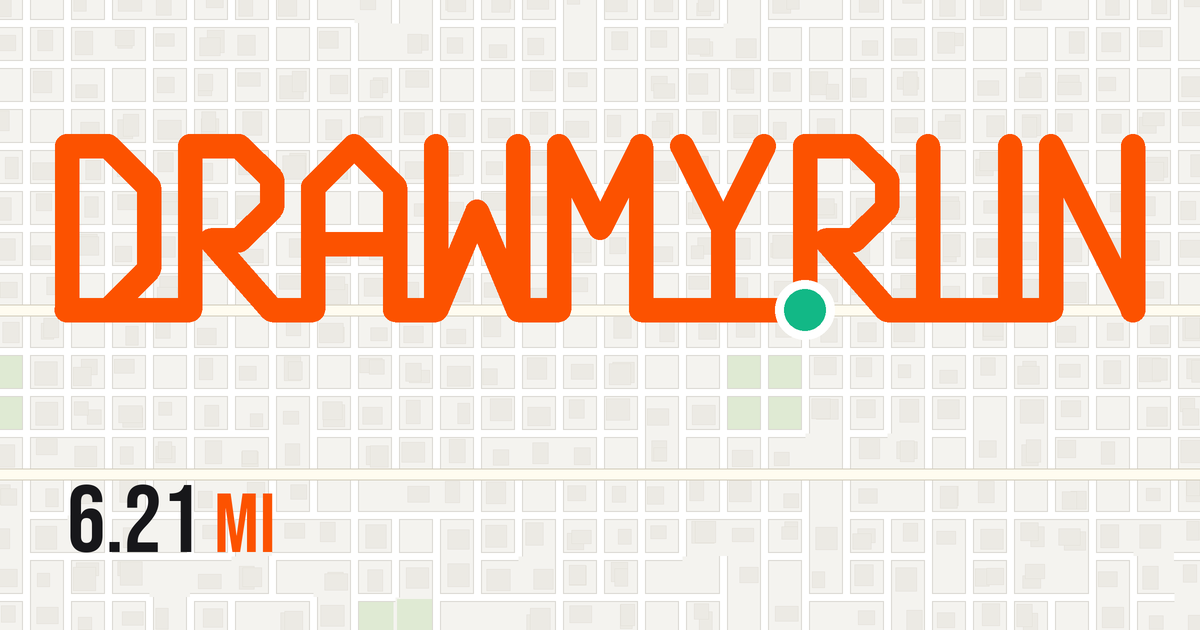
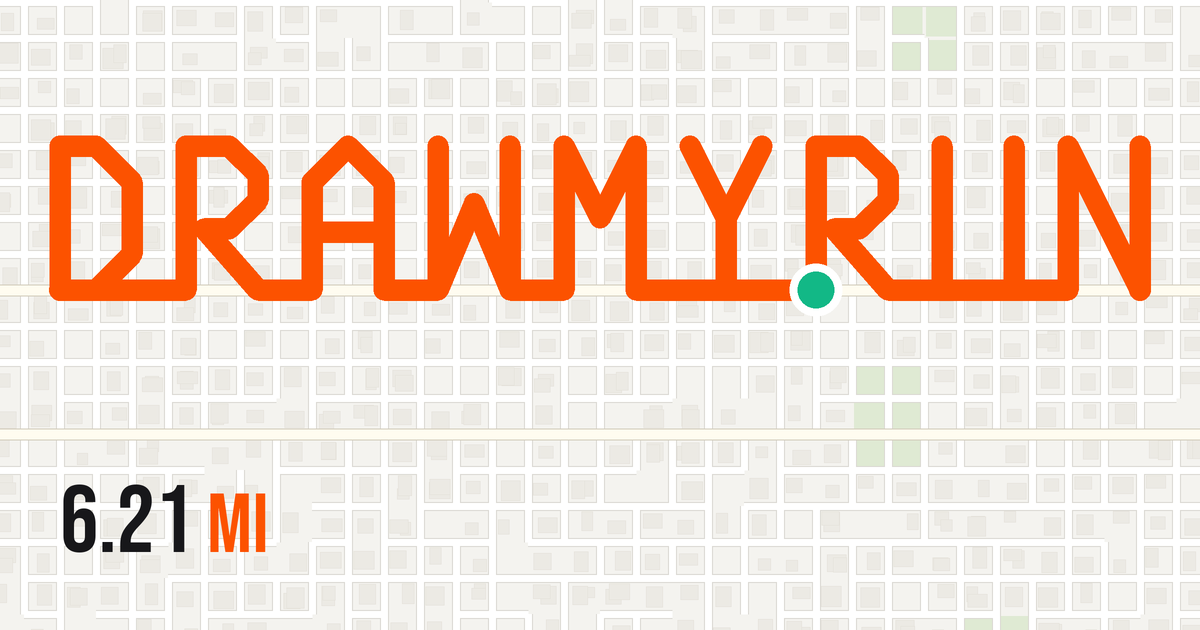
The wordmark readable: letters set apart, the etched paint bright, the mark a size up
The letters stood three units apart on a lattice two wide, which left
less than half a unit of clear space between one letter and the next,
and at the header's size that is two pixels: the letters ran together.
They stand three and a half apart now, with nearly a unit clear between
them, in the header, on the bib, in the GIF's band and on the card. The
etch had also dimmed the paint and shaded the top third of every
stroke; the paint is the deck's full orange now, with the recess's
shadow a thin line along the top edge, and the lip below a little
brighter. The header's mark is a size up, 28 pixels on a phone and 32
on a wider screen.

The card is drawn again with the wider mark, and every stretch of the
run has a street under it whether it lies on the grid or not.

Claude-Session: https://claude.ai/code/session_01Dmg3qgF2RMqA8VqrgFUq5h

Changed region(s): [[0.0, 0.0, 1.0, 1.0]]

diff --git a/web/src/lib/wordmark.ts b/web/src/lib/wordmark.ts
@@ -1,17 +1,17 @@
 // The wordmark as a run: DRAWMYRUN in block letters on a lattice, two units
-// wide and four tall, drawn by one route line that joins the letters along
+// wide and four tall, set three and a half apart so they read apart, drawn by one route line that joins the letters along
 // the baseline and retraces where a runner would, and the green start dot
 // standing at the foot of RUN's R as the period. One path, in lattice units;
 // the header, the bib, the GIF's caption band and the social card all draw it.
-export const WORDMARK_D = "M0.00 4L0.00 0L1.00 0L2.00 1L2.00 3L1.00 4L0.00 4L2.00 4L3.00 4L3.00 0L4.20 0L5.00 0.8L5.00 1.5L4.20 2.3L3.50 2.3L5.00 4L6.00 4L6.00 1L7.00 0L8.00 1L8.00 2.4L6.00 2.4L8.00 2.4L8.00 4L9.00 4L9.00 0L9.00 4L10.00 1.6L11.00 4L11.00 0L11.00 4L12.00 4L12.00 0L13.00 2L14.00 0L14.00 4L15.00 4L16.00 4L16.00 2L15.00 0L16.00 2L17.00 0L16.00 2L16.00 4L17.00 4L18.00 4L18.00 0L19.20 0L20.00 0.8L20.00 1.5L19.20 2.3L18.50 2.3L20.00 4L21.00 4L21.00 0L21.00 4L23.00 4L23.00 0L23.00 4L24.00 4L24.00 0L26.00 4L26.00 0L26.00 4";
+export const WORDMARK_D = "M0.00 4L0.00 0L1.00 0L2.00 1L2.00 3L1.00 4L0.00 4L2.00 4L3.50 4L3.50 0L4.70 0L5.50 0.8L5.50 1.5L4.70 2.3L4.00 2.3L5.50 4L7.00 4L7.00 1L8.00 0L9.00 1L9.00 2.4L7.00 2.4L9.00 2.4L9.00 4L10.50 4L10.50 0L10.50 4L11.50 1.6L12.50 4L12.50 0L12.50 4L14.00 4L14.00 0L15.00 2L16.00 0L16.00 4L17.50 4L18.50 4L18.50 2L17.50 0L18.50 2L19.50 0L18.50 2L18.50 4L19.50 4L21.00 4L21.00 0L22.20 0L23.00 0.8L23.00 1.5L22.20 2.3L21.50 2.3L23.00 4L24.50 4L24.50 0L24.50 4L26.50 4L26.50 0L26.50 4L28.00 4L28.00 0L30.00 4L30.00 0L30.00 4";
 // The same run as one filled outline (the stroke's outline, its retraces
 // joined), which is what is drawn: a stroke that goes back over itself
 // leaves little burrs at the joins at small sizes, an outline does not.
 // Made from WORDMARK_D and WORDMARK_STROKE with shapely (round caps and
 // joins); rings inside are the counters, so it is filled even-odd.
-export const WORDMARK_OUTLINE_D = "M1.039 -0.297L-0.039 -0.297L-0.078 -0.290L-0.150 -0.260L-0.212 -0.212L-0.260 -0.150L-0.290 -0.078L-0.300 0.000L-0.300 4.000L-0.290 4.078L-0.260 4.150L-0.238 4.183L-0.183 4.238L-0.150 4.260L-0.078 4.290L0.000 4.300L3.000 4.300L3.078 4.290L3.150 4.260L3.212 4.212L3.260 4.150L3.290 4.078L3.297 4.039L3.300 2.527L4.775 4.198L4.834 4.250L4.904 4.284L5.000 4.300L6.000 4.300L6.078 4.290L6.115 4.277L6.150 4.260L6.212 4.212L6.260 4.150L6.277 4.115L6.290 4.078L6.300 4.000L6.300 2.700L7.700 2.700L7.700 4.000L7.710 4.078L7.740 4.150L7.762 4.183L7.817 4.238L7.850 4.260L7.922 4.290L7.961 4.297L9.039 4.297L9.114 4.277L9.182 4.238L9.212 4.212L9.260 4.150L10.000 2.380L10.723 4.115L10.762 4.183L10.788 4.213L10.850 4.260L10.886 4.277L10.961 4.297L11.000 4.300L12.000 4.300L12.078 4.290L12.150 4.260L12.183 4.238L12.238 4.183L12.277 4.115L12.297 4.039L12.300 1.271L12.750 2.165L12.801 2.224L12.866 2.268L12.940 2.294L12.982 2.299L13.060 2.294L13.134 2.268L13.197 2.227L13.249 2.168L13.700 1.271L13.703 4.039L13.723 4.115L13.762 4.183L13.817 4.238L13.850 4.260L13.922 4.290L14.000 4.300L18.000 4.300L18.078 4.290L18.115 4.277L18.183 4.238L18.238 4.183L18.277 4.115L18.297 4.039L18.300 2.527L19.775 4.198L19.834 4.250L19.904 4.284L20.000 4.300L24.000 4.300L24.078 4.290L24.150 4.260L24.183 4.238L24.238 4.183L24.277 4.115L24.297 4.039L24.300 1.271L25.751 4.168L25.817 4.238L25.885 4.277L25.982 4.299L26.060 4.294L26.134 4.268L26.212 4.212L26.270 4.131L26.295 4.057L26.300 4.000L26.300 0.000L26.297 -0.039L26.277 -0.115L26.238 -0.183L26.183 -0.238L26.150 -0.260L26.078 -0.290L26.039 -0.297L25.961 -0.297L25.922 -0.290L25.885 -0.277L25.817 -0.238L25.762 -0.183L25.740 -0.150L25.723 -0.115L25.703 -0.039L25.700 2.729L24.249 -0.168L24.197 -0.227L24.131 -0.270L24.057 -0.295L23.979 -0.299L23.902 -0.284L23.832 -0.249L23.773 -0.197L23.740 -0.150L23.710 -0.078L23.700 0.000L23.700 3.700L23.300 3.700L23.300 0.000L23.297 -0.039L23.277 -0.115L23.238 -0.183L23.183 -0.238L23.150 -0.260L23.078 -0.290L23.039 -0.297L22.961 -0.297L22.922 -0.290L22.885 -0.277L22.817 -0.238L22.762 -0.183L22.740 -0.150L22.723 -0.115L22.703 -0.039L22.700 3.700L21.300 3.700L21.297 -0.039L21.277 -0.115L21.260 -0.150L21.238 -0.183L21.183 -0.238L21.115 -0.277L21.078 -0.290L21.000 -0.300L20.922 -0.290L20.885 -0.277L20.817 -0.238L20.762 -0.183L20.740 -0.150L20.723 -0.115L20.703 -0.039L20.700 3.700L20.135 3.700L19.165 2.600L19.239 2.597L19.315 2.577L19.383 2.538L19.412 2.512L20.212 1.712L20.238 1.683L20.277 1.615L20.297 1.539L20.300 1.500L20.300 0.800L20.290 0.722L20.260 0.650L20.212 0.588L19.412 -0.212L19.383 -0.238L19.315 -0.277L19.278 -0.290L19.200 -0.300L17.961 -0.297L17.885 -0.277L17.817 -0.238L17.762 -0.183L17.723 -0.115L17.703 -0.039L17.700 0.000L17.700 3.700L16.300 3.700L16.300 2.071L17.284 0.098L17.299 0.021L17.295 -0.057L17.285 -0.095L17.250 -0.165L17.199 -0.224L17.168 -0.249L17.098 -0.284L17.060 -0.294L16.982 -0.299L16.905 -0.285L16.835 -0.250L16.776 -0.199L16.751 -0.168L16.000 1.329L15.268 -0.134L15.224 -0.199L15.165 -0.250L15.095 -0.285L15.018 -0.299L14.940 -0.294L14.866 -0.268L14.801 -0.224L14.750 -0.165L14.715 -0.095L14.701 -0.018L14.701 0.021L14.716 0.098L14.732 0.134L15.700 2.071L15.700 3.700L14.300 3.700L14.299 -0.018L14.277 -0.115L14.238 -0.183L14.183 -0.238L14.098 -0.284L14.000 -0.300L13.905 -0.285L13.817 -0.238L13.751 -0.168L13.000 1.329L12.268 -0.134L12.224 -0.199L12.183 -0.238L12.115 -0.277L12.039 -0.297L11.961 -0.297L11.902 -0.284L11.832 -0.249L11.773 -0.197L11.740 -0.150L11.710 -0.078L11.700 0.000L11.700 3.700L11.300 3.700L11.300 0.000L11.297 -0.039L11.277 -0.115L11.238 -0.183L11.183 -0.238L11.115 -0.277L11.039 -0.297L10.961 -0.297L10.885 -0.277L10.817 -0.238L10.762 -0.183L10.723 -0.115L10.703 -0.039L10.700 2.500L10.259 1.449L10.213 1.388L10.151 1.341L10.078 1.310L10.001 1.300L9.923 1.310L9.851 1.340L9.788 1.387L9.741 1.449L9.300 2.500L9.300 0.000L9.290 -0.078L9.260 -0.150L9.212 -0.212L9.150 -0.260L9.078 -0.290L9.000 -0.300L8.922 -0.290L8.850 -0.260L8.817 -0.238L8.762 -0.183L8.723 -0.115L8.703 -0.039L8.700 0.000L8.700 3.700L8.300 3.700L8.300 1.000L8.297 0.961L8.277 0.885L8.238 0.817L8.212 0.788L7.183 -0.238L7.115 -0.277L7.039 -0.297L6.961 -0.297L6.885 -0.277L6.850 -0.260L6.788 -0.212L5.788 0.788L5.740 0.850L5.723 0.885L5.710 0.922L5.700 1.000L5.700 3.700L5.135 3.700L4.165 2.600L4.239 2.597L4.278 2.590L4.350 2.560L4.383 2.538L5.212 1.712L5.260 1.650L5.290 1.578L5.300 1.500L5.300 0.800L5.290 0.722L5.260 0.650L5.212 0.588L4.412 -0.212L4.350 -0.260L4.315 -0.277L4.278 -0.290L4.200 -0.300L3.000 -0.300L2.922 -0.290L2.850 -0.260L2.788 -0.212L2.762 -0.183L2.723 -0.115L2.710 -0.078L2.700 0.000L2.700 3.700L1.724 3.700L2.212 3.212L2.260 3.150L2.290 3.078L2.300 3.000L2.297 0.961L2.277 0.885L2.238 0.817L2.212 0.788L1.212 -0.212L1.150 -0.260L1.115 -0.277ZM0.876 0.300L1.700 1.124L1.700 2.876L0.876 3.700L0.300 3.700L0.300 0.300ZM4.700 1.376L4.076 2.000L3.479 2.001L3.385 2.023L3.333 2.051L3.300 2.077L3.300 0.300L4.076 0.300L4.700 0.924ZM6.300 1.124L7.000 0.424L7.700 1.124L7.700 2.100L6.300 2.100ZM19.700 0.924L19.700 1.376L19.076 2.000L18.479 2.001L18.385 2.023L18.333 2.051L18.300 2.077L18.300 0.300L19.076 0.300Z";
-export const WORDMARK_DOT = { x: 18, y: 4, r: 0.62 };
-export const WORDMARK_W = 26;          // the letters' width, in units
+export const WORDMARK_OUTLINE_D = "M1.039 -0.297L-0.039 -0.297L-0.078 -0.290L-0.150 -0.260L-0.212 -0.212L-0.260 -0.150L-0.290 -0.078L-0.300 0.000L-0.300 4.000L-0.290 4.078L-0.260 4.150L-0.238 4.183L-0.183 4.238L-0.150 4.260L-0.078 4.290L0.000 4.300L3.500 4.300L3.578 4.290L3.615 4.277L3.683 4.238L3.738 4.183L3.777 4.115L3.797 4.039L3.800 2.527L5.275 4.198L5.350 4.260L5.422 4.290L5.500 4.300L7.000 4.300L7.078 4.290L7.115 4.277L7.183 4.238L7.238 4.183L7.277 4.115L7.297 4.039L7.300 2.700L8.700 2.700L8.703 4.039L8.723 4.115L8.740 4.150L8.762 4.183L8.817 4.238L8.850 4.260L8.922 4.290L9.000 4.300L10.539 4.297L10.614 4.277L10.682 4.238L10.712 4.212L10.760 4.150L11.500 2.380L12.223 4.115L12.262 4.183L12.318 4.238L12.351 4.260L12.422 4.290L12.500 4.300L14.000 4.300L14.078 4.290L14.150 4.260L14.183 4.238L14.238 4.183L14.277 4.115L14.297 4.039L14.300 1.271L14.750 2.165L14.801 2.224L14.866 2.268L14.940 2.294L14.982 2.299L15.060 2.294L15.134 2.268L15.197 2.227L15.249 2.168L15.700 1.271L15.703 4.039L15.723 4.115L15.740 4.150L15.788 4.212L15.850 4.260L15.922 4.290L15.961 4.297L21.000 4.300L21.078 4.290L21.150 4.260L21.183 4.238L21.238 4.183L21.277 4.115L21.297 4.039L21.300 2.527L22.775 4.198L22.834 4.250L22.922 4.290L23.000 4.300L28.000 4.300L28.078 4.290L28.150 4.260L28.183 4.238L28.238 4.183L28.277 4.115L28.297 4.039L28.300 1.271L29.732 4.134L29.762 4.183L29.817 4.238L29.905 4.285L29.982 4.299L30.078 4.290L30.168 4.249L30.227 4.197L30.277 4.115L30.297 4.039L30.300 0.000L30.297 -0.039L30.277 -0.115L30.238 -0.183L30.183 -0.238L30.150 -0.260L30.078 -0.290L30.039 -0.297L29.961 -0.297L29.922 -0.290L29.885 -0.277L29.817 -0.238L29.762 -0.183L29.740 -0.150L29.723 -0.115L29.703 -0.039L29.700 2.729L28.249 -0.168L28.197 -0.227L28.131 -0.270L28.057 -0.295L27.979 -0.299L27.902 -0.284L27.832 -0.249L27.773 -0.197L27.740 -0.150L27.710 -0.078L27.700 0.000L27.700 3.700L26.800 3.700L26.797 -0.039L26.777 -0.115L26.760 -0.150L26.738 -0.183L26.683 -0.238L26.615 -0.277L26.578 -0.290L26.500 -0.300L26.422 -0.290L26.385 -0.277L26.317 -0.238L26.262 -0.183L26.240 -0.150L26.223 -0.115L26.203 -0.039L26.200 3.700L24.800 3.700L24.797 -0.039L24.777 -0.115L24.760 -0.150L24.738 -0.183L24.683 -0.238L24.615 -0.277L24.578 -0.290L24.500 -0.300L24.422 -0.290L24.385 -0.277L24.317 -0.238L24.262 -0.183L24.240 -0.150L24.223 -0.115L24.203 -0.039L24.200 3.700L23.135 3.700L22.165 2.600L22.239 2.597L22.315 2.577L22.383 2.538L22.412 2.512L23.212 1.712L23.238 1.683L23.277 1.615L23.297 1.539L23.300 1.500L23.300 0.800L23.290 0.722L23.260 0.650L23.212 0.588L22.412 -0.212L22.383 -0.238L22.315 -0.277L22.278 -0.290L22.200 -0.300L20.961 -0.297L20.885 -0.277L20.817 -0.238L20.762 -0.183L20.723 -0.115L20.703 -0.039L20.700 0.000L20.700 3.700L18.800 3.700L18.800 2.071L19.768 0.134L19.794 0.060L19.799 0.021L19.795 -0.057L19.770 -0.131L19.727 -0.197L19.668 -0.249L19.598 -0.284L19.521 -0.299L19.482 -0.299L19.405 -0.285L19.335 -0.250L19.276 -0.199L19.251 -0.168L18.500 1.329L17.768 -0.134L17.724 -0.199L17.665 -0.250L17.631 -0.270L17.595 -0.285L17.518 -0.299L17.479 -0.299L17.402 -0.284L17.332 -0.249L17.273 -0.197L17.230 -0.131L17.205 -0.057L17.201 0.021L17.216 0.098L18.200 2.071L18.200 3.700L16.300 3.700L16.299 -0.018L16.290 -0.078L16.270 -0.131L16.238 -0.183L16.199 -0.224L16.150 -0.260L16.098 -0.284L16.000 -0.300L15.922 -0.290L15.850 -0.260L15.788 -0.212L15.740 -0.150L15.000 1.329L14.268 -0.134L14.224 -0.199L14.183 -0.238L14.115 -0.277L14.039 -0.297L13.961 -0.297L13.902 -0.284L13.832 -0.249L13.773 -0.197L13.740 -0.150L13.710 -0.078L13.700 0.000L13.700 3.700L12.800 3.700L12.800 0.000L12.790 -0.078L12.760 -0.150L12.738 -0.183L12.683 -0.238L12.615 -0.277L12.539 -0.297L12.461 -0.297L12.422 -0.290L12.350 -0.260L12.288 -0.212L12.240 -0.150L12.223 -0.115L12.203 -0.039L12.200 2.500L11.759 1.449L11.713 1.388L11.651 1.341L11.578 1.310L11.501 1.300L11.423 1.310L11.351 1.340L11.288 1.387L11.241 1.449L10.800 2.500L10.800 0.000L10.790 -0.078L10.760 -0.150L10.738 -0.183L10.683 -0.238L10.615 -0.277L10.539 -0.297L10.461 -0.297L10.422 -0.290L10.350 -0.260L10.288 -0.212L10.240 -0.150L10.210 -0.078L10.200 0.000L10.200 3.700L9.300 3.700L9.300 1.000L9.297 0.961L9.277 0.885L9.238 0.817L9.212 0.788L8.183 -0.238L8.115 -0.277L8.039 -0.297L7.961 -0.297L7.885 -0.277L7.850 -0.260L7.788 -0.212L6.788 0.788L6.740 0.850L6.710 0.922L6.700 1.000L6.700 3.700L5.635 3.700L4.665 2.600L4.739 2.597L4.778 2.590L4.850 2.560L4.883 2.538L5.712 1.712L5.760 1.650L5.790 1.578L5.800 1.500L5.800 0.800L5.790 0.722L5.760 0.650L5.712 0.588L4.912 -0.212L4.850 -0.260L4.815 -0.277L4.778 -0.290L4.700 -0.300L3.500 -0.300L3.422 -0.290L3.350 -0.260L3.288 -0.212L3.262 -0.183L3.223 -0.115L3.210 -0.078L3.200 0.000L3.200 3.700L1.724 3.700L2.212 3.212L2.260 3.150L2.290 3.078L2.300 3.000L2.297 0.961L2.277 0.885L2.238 0.817L2.212 0.788L1.212 -0.212L1.150 -0.260L1.115 -0.277ZM0.876 0.300L1.700 1.124L1.700 2.876L0.876 3.700L0.300 3.700L0.300 0.300ZM5.200 1.376L4.576 2.000L3.979 2.001L3.885 2.023L3.833 2.051L3.800 2.077L3.800 0.300L4.576 0.300L5.200 0.924ZM7.300 1.124L8.000 0.424L8.700 1.124L8.700 2.100L7.300 2.100ZM22.700 0.924L22.700 1.376L22.076 2.000L21.479 2.001L21.385 2.023L21.333 2.051L21.300 2.077L21.300 0.300L22.076 0.300Z";
+export const WORDMARK_DOT = { x: 21, y: 4, r: 0.62 };
+export const WORDMARK_W = 30;          // the letters' width, in units
 export const WORDMARK_H = 4;
 export const WORDMARK_STROKE = 0.6;
 // The box round the mark: the line's half width and a little air on every

diff --git a/web/src/components/Wordmark.tsx b/web/src/components/Wordmark.tsx
@@ -27,11 +27,11 @@ export default function Wordmark({ height, className, title = "drawmy.run", etch
             <feFlood floodColor="#fff" floodOpacity="0.22" result="white" />
             <feComposite in="white" in2="lipA" operator="in" result="lip" />
             {/* the paint's own top edge in the wall's shadow, inside the cut */}
-            <feOffset in="SourceAlpha" dy="0.38" result="down2" />
+            <feOffset in="SourceAlpha" dy="0.2" result="down2" />
             <feComposite in="SourceAlpha" in2="down2" operator="out" result="shadeA" />
-            <feGaussianBlur in="shadeA" stdDeviation="0.1" result="shadeB" />
+            <feGaussianBlur in="shadeA" stdDeviation="0.06" result="shadeB" />
             <feComposite in="shadeB" in2="SourceAlpha" operator="in" result="shadeC" />
-            <feFlood floodColor="#000" floodOpacity="0.62" result="black2" />
+            <feFlood floodColor="#000" floodOpacity="0.42" result="black2" />
             <feComposite in="black2" in2="shadeC" operator="in" result="shade" />
             <feMerge>
               <feMergeNode in="wall" />
@@ -43,7 +43,7 @@ export default function Wordmark({ height, className, title = "drawmy.run", etch
         </defs>
       )}
       <g filter={etched ? `url(#${cut})` : undefined}>
-        <path d={WORDMARK_OUTLINE_D} fill={etched ? "#e84e02" : "#fc5200"} fillRule="evenodd" />
+        <path d={WORDMARK_OUTLINE_D} fill={etched ? "#fa5202" : "#fc5200"} fillRule="evenodd" />
         <circle cx={WORDMARK_DOT.x} cy={WORDMARK_DOT.y} r={WORDMARK_DOT.r} fill={etched ? "#11a97b" : "#12b886"} stroke={etched ? "#e6e2d8" : "#f6f3ec"} strokeWidth={0.22} />
       </g>
     </svg>

diff --git a/web/src/components/RunMapper.tsx b/web/src/components/RunMapper.tsx
@@ -634,7 +634,7 @@ export default function RunMapper() {
         <header className="flex items-center justify-between gap-3 px-6 pt-3 pb-2.5">
           {/* The wordmark, and nothing else: drawmy.run as a run, one orange route through the letters, the green start dot at the foot of RUN's R for the period. */}
           <h1 className="logo">
-            <Wordmark height={26} className="logo-mark" etched />
+            <Wordmark height={28} className="logo-mark" etched />
           </h1>
           <span className="sr-only" role="status">{statusWord}</span>
           <button

diff --git a/web/src/app/globals.css b/web/src/app/globals.css
@@ -134,13 +134,13 @@ body {
 }
 .logo-mark {
   display: block;
-  height: 26px;                  /* the box holds the dot below the baseline, so 26 is the old 24 of letters */
+  height: 28px;                  /* the box holds the dot below the baseline: 20px of letters */
   width: auto;
   overflow: visible;
 }
 @media (min-width: 640px) {
   .logo-mark {
-    height: 30px;
+    height: 32px;
   }
 }
 /* The key that quiets the deck, in the header beside the wordmark. */
